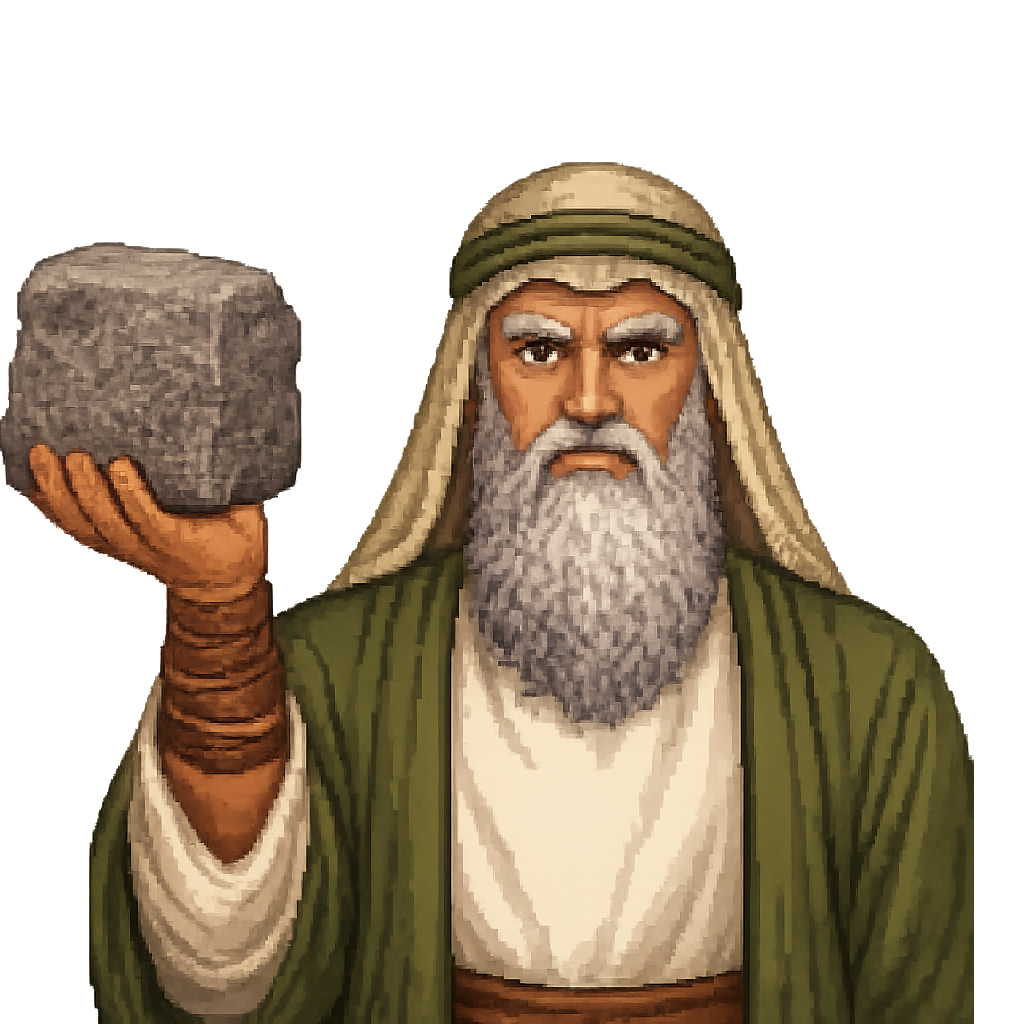
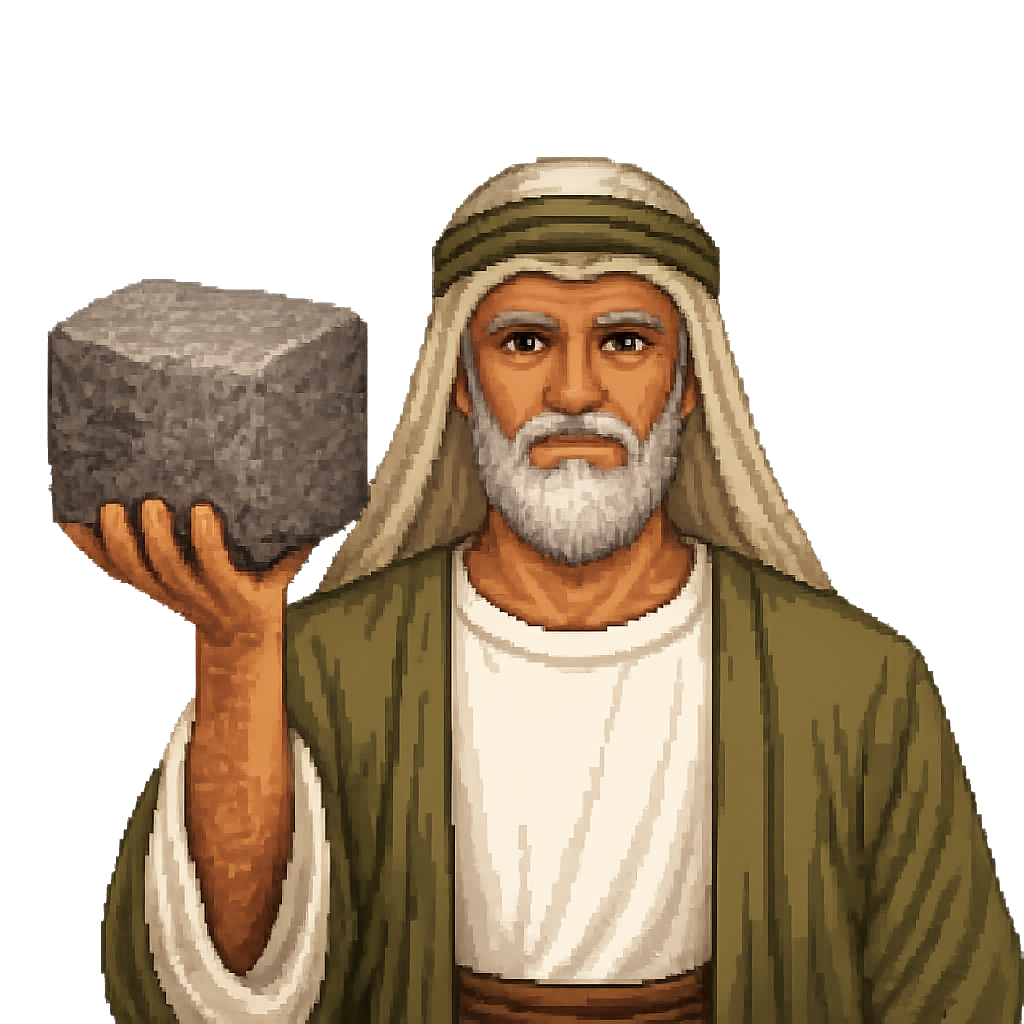
Shop: redraw Moses, Jethro and Amram portraits from Aaron's portrait (calm expression, same pixel style); previous versions kept as shop-portrait-legacy-v4-*; recentre Amram's sidebar face crop

diff --git a/src/components/ChampionArt.tsx b/src/components/ChampionArt.tsx
@@ -16,7 +16,7 @@ const FACE = { x: 352 / 1024, y: 190 / 1024, w: 320 / 1024 };
 // Portraits whose face sits off-centre (to keep the held item in frame) get
 // their own crop so the sidebar face stays centred.
 const FACE_BY_ID: Record<string, typeof FACE> = {
-  amram: { x: 429 / 1024, y: 190 / 1024, w: 320 / 1024 },
+  amram: { x: 397 / 1024, y: 190 / 1024, w: 320 / 1024 },
 };
 
 export function ChampionArt({ id, url, alt = "", face, size }: { id?: string; url?: string; alt?: string; face?: boolean; size?: number }) {

diff --git a/AGENTS.md b/AGENTS.md
@@ -101,7 +101,7 @@ bgp-admin at `templates/agent-docs/`, so ask before adding it.
 - Off-screen overlays read restored world positions and actual HP; pure geometry is tested separately.
 - Grant free starters during save sanitization to preserve existing purchases.
 - Shop portraits share one 1024² composition (`shop-portrait-v3-*`); sidebar faces are a fixed crop in `ChampionArt.tsx`, and item icons are keyed `category:id` (`shop-icon-<category>-<id>`) because ids repeat across categories.
-- New or redone shop portraits: OpenAI `images/edits` (`gpt-image-1.5`, `input_fidelity: high`, transparent PNG) with `shop-portrait-v3-aaron.png` as the ONLY input image plus a text description of the character and item ("redraw this exact portrait as a different character, same style and framing"). Passing the old portrait or a sprite as a second image copies its look instead of Aaron's style. Previous versions are kept as `shop-portrait-legacy-v3-*` (outside the glob).
+- New or redone shop portraits: OpenAI `images/edits` (`gpt-image-1.5`, `input_fidelity: high`, transparent PNG) with `shop-portrait-v3-aaron.png` as the ONLY input image plus a text description of the character and item ("redraw this exact portrait as a different character, same style and framing"). Passing the old portrait or a sprite as a second image copies its look instead of Aaron's style. Previous versions are kept as `shop-portrait-legacy-v3-*` / `-legacy-v4-*` (outside the glob). Ask for a calm, neutral expression (old men otherwise come out scowling).
 - Shop equipment uses `equipmentManifest.ts`/`equipmentArt.ts` and separate staff icon assets; in-hand and projectile combat art uses `combatEquipmentArt.ts`, never shop images, to preserve native sprite proportions. The front branch keeps the original Moses stick asset; retain shield IDs and old assets for rollback.
 - All images live as real files in `src/assets` imported directly; never use `.asset.json` CDN pointers (the `/__l5e/` path only exists on Lovable hosting).
 - Sounds: gameplay calls `snd(state, "event.id", pos?)` (`game/audio/gameSound.ts`), UI uses `data-sfx` / `data-sfx-hover` attributes (`audio/uiSounds.ts`). Actions and playback rules: `audio/soundCatalog.ts`. Any library sound (`audio/soundLibrary.json`, rebuilt by `bun scripts/build-sound-library.ts` from `public/audio`: ElevenLabs files + `public/audio/Library/<Pack>/pack.json` packs) can be assigned to any action; defaults are `DEFAULT_SOUNDS` in `audio/soundChoices.ts` (Claude's version 1 for every action, then `PICKS()`, where picks the maintainer pastes back go; the older picks stay in `PREVIOUS_SOUNDS`, shown second in the picker), overridden per browser in Test Map → Sound testing. Weapons only sound on impact (maintainer decision). `bun scripts/synth-sounds.ts` renders the Synth pack; `bun scripts/claude-sounds/render.ts [action.id]` renders the Claude pack (two procedural versions per action from `scripts/claude-sounds/recipes.ts`, tagged with `action` so the picker lists them first — rebuild the library after); `bun scripts/generate-sounds.ts` fills missing ElevenLabs files (key quota ran out on 2026-11-18).
